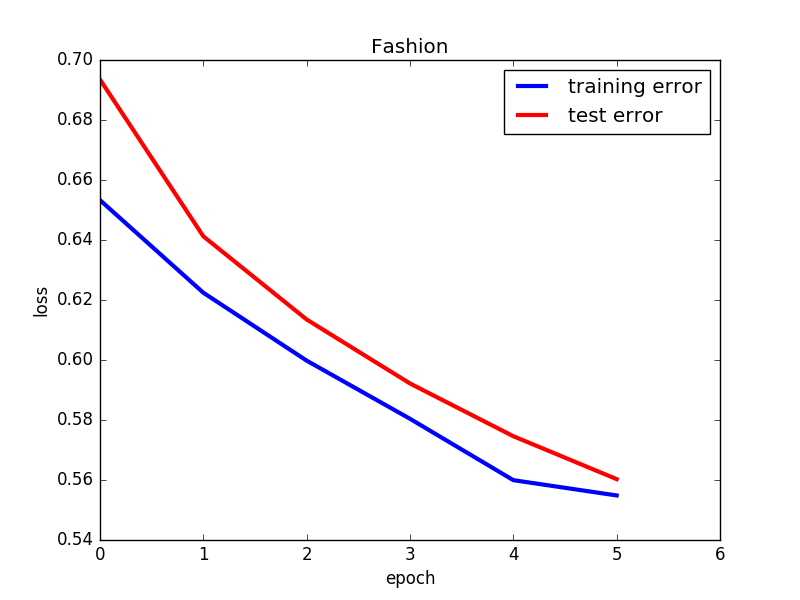
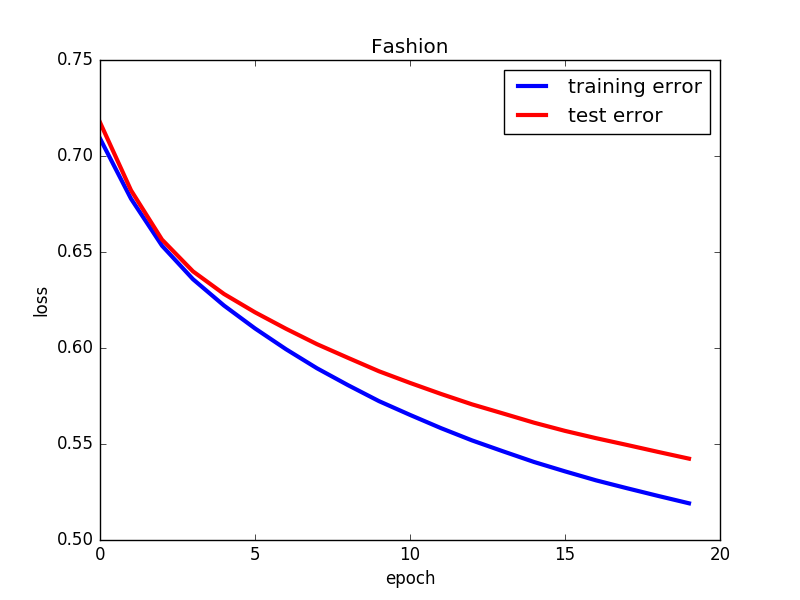
update

diff --git a/back/stylenet-dnn/train800test100data_man_formal_vs_woman/run_dnn.py b/back/stylenet-dnn/train800test100data_man_formal_vs_woman/run_dnn.py
@@ -36,18 +36,20 @@ class MNIST_Chain(Chain):
 """Initialize model""" 
 #モデルのセット 
 model = MNIST_Chain() 
-#最適化にはAdam 
+#最適化にはAdam or SGD
 optimizer = optimizers.SGD() 
 #モデルに最適化をセット 
 optimizer.setup(model) 
 
 """Learn and Test""" 
 #ミニバッチ法を用いる 
-max_epoch = 40 #回繰り返す 
+max_epoch = 150 #回繰り返す 
 #データサイズ 
 n = 800
-#バッチサイズ 
-bs = 200 
+
+# #バッチサイズ 
+# bs = 400 
+
 training_error=np.zeros(max_epoch) 
 test_error=np.zeros(max_epoch) 
 for epoch in range(max_epoch): 
@@ -70,20 +72,35 @@ for epoch in range(max_epoch):
     #プロット用の誤差 
     test_error[epoch]=loss.data 
 
-    #訓練データをミニバッチ法のためシャッフルする 
-    sffindx = np.random.permutation(n) 
-    for i in range(0, n, bs): 
-        #ミニバッチ法用のデータをセット 
-        x = Variable(xtrain[sffindx[i:(i+bs) if (i+bs) < n else n]]) 
-        y = Variable(ytrain[sffindx[i:(i+bs) if (i+bs) < n else n]]) 
-        #勾配初期化 
-        model.zerograds() 
-        #誤差計算 
-        loss, acc = model(x,y) 
-        #勾配計算 
-        loss.backward() 
-        #パラメータ更新 
-        optimizer.update() 
+    # バッチ
+    x = Variable(xtrain) 
+    y = Variable(ytrain) 
+    #勾配初期化 
+    model.zerograds() 
+    #誤差計算 
+    loss, acc = model(x,y) 
+    #勾配計算 
+    loss.backward() 
+    #パラメータ更新 
+    optimizer.update() 
+
+    # # ミニバッチ
+
+    # #訓練データをミニバッチ法のためシャッフルする 
+    # sffindx = np.random.permutation(n) 
+    # for i in range(0, n, bs): 
+    #     #ミニバッチ法用のデータをセット 
+    #     x = Variable(xtrain[sffindx[i:(i+bs) if (i+bs) < n else n]]) 
+    #     y = Variable(ytrain[sffindx[i:(i+bs) if (i+bs) < n else n]]) 
+    #     #勾配初期化 
+    #     model.zerograds() 
+    #     #誤差計算 
+    #     loss, acc = model(x,y) 
+    #     #勾配計算 
+    #     loss.backward() 
+    #     #パラメータ更新 
+    #     optimizer.update() 
+
     #プロット用の誤差 
     training_error[epoch]=loss.data 
 
